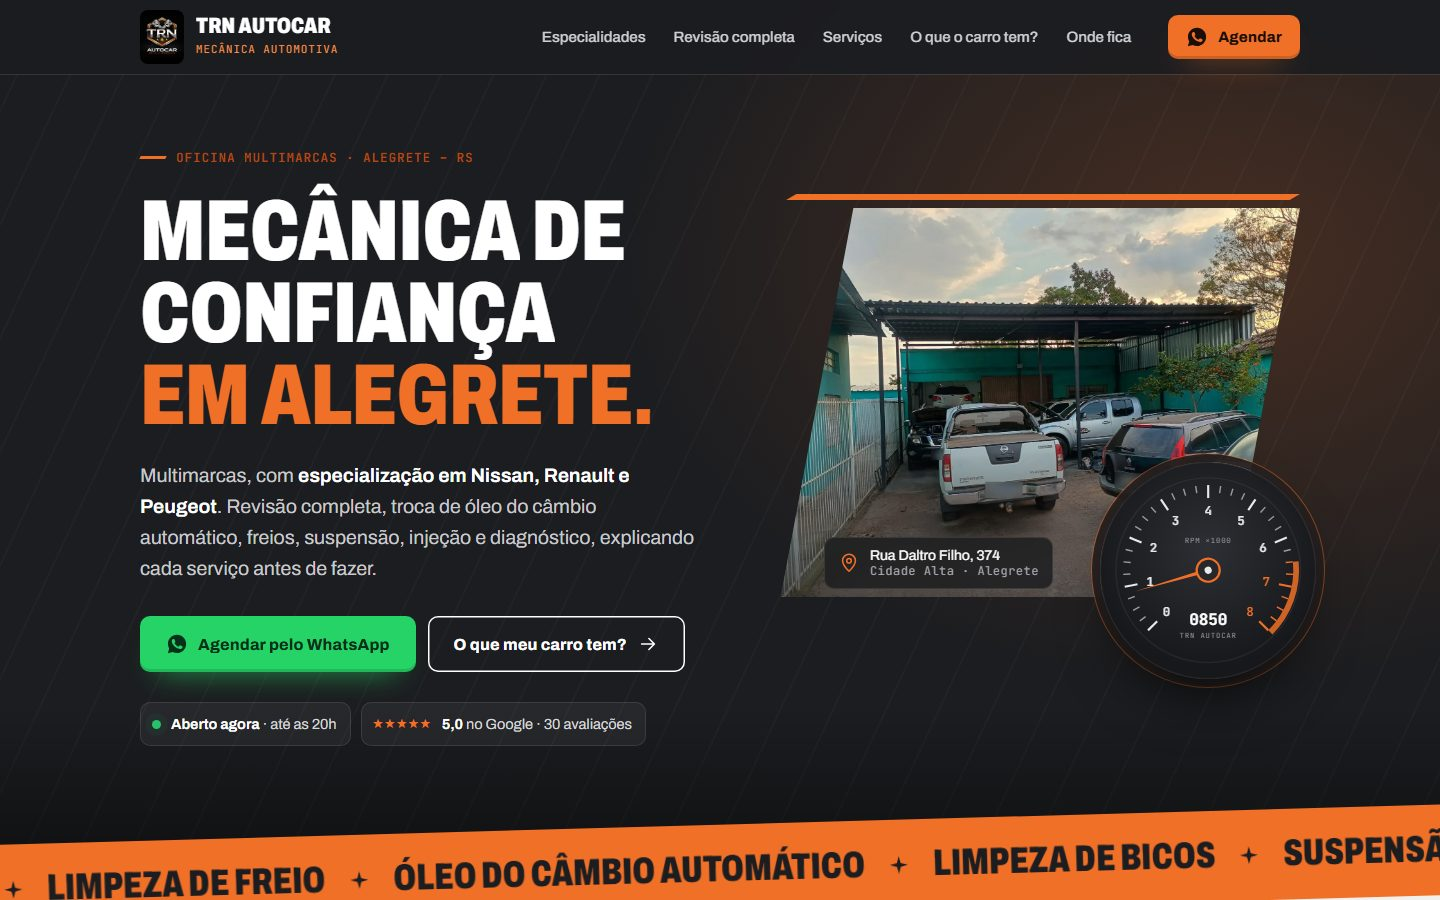
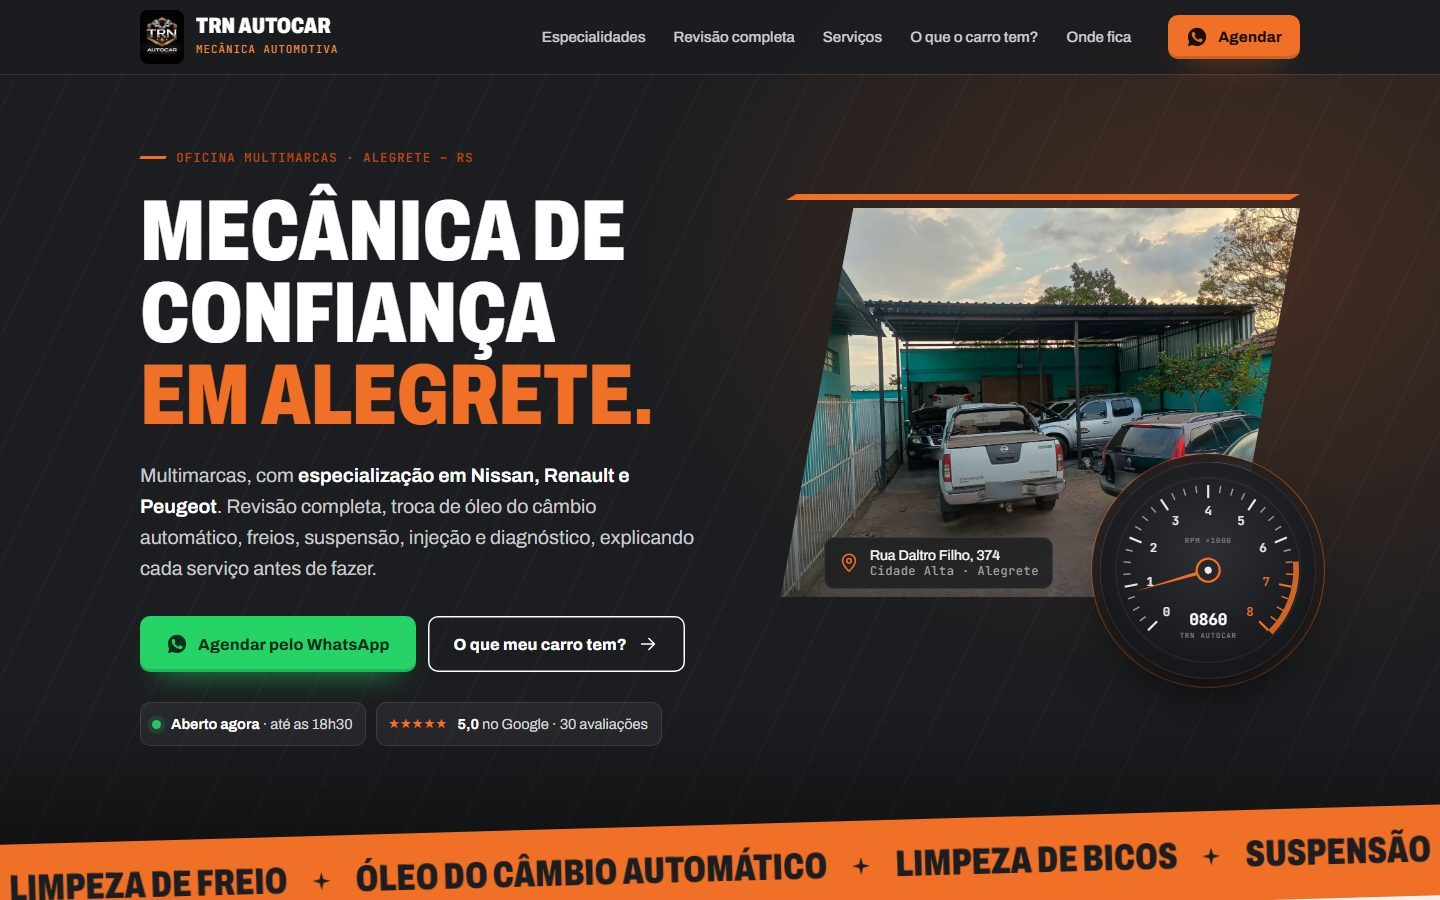
feat: TRN com domínio próprio no portfólio
Endereço oficial www.trnautocar.com.br nos cards, no depoimento e na
abertura; pacote entregue atualizado; capturas com o horário novo.
O texto da abertura agora fala em troca de óleo do câmbio.

Changed region(s): [[0.0, 0.9022, 1.0, 1.0], [0.2188, 0.7778, 0.4375, 0.8089]]

diff --git a/app/data/local.ts b/app/data/local.ts
@@ -71,13 +71,15 @@ export const clients: Client[] = [
     name: "TRN Autocar",
     niche: "Oficina mecânica",
     city: "Alegrete",
-    url: "https://trn-autocar-demo.vercel.app/",
+    url: "https://www.trnautocar.com.br/",
     summary:
       "Oficina multimarcas especialista em Nissan, Renault e Peugeot. O cliente marca o que o carro está fazendo e já chega no WhatsApp com o recado pronto.",
-    highlights: ["\"O que o meu carro tem?\"", "Revisão completa com checklist", "Contador da correia dentada"],
+    highlights: ["Domínio próprio", "\"O que o meu carro tem?\"", "Contador da correia dentada"],
     delivered: [
+      "Domínio .com.br próprio",
+      "Google Search Console e sitemap",
+      "Google Analytics contando cada clique no WhatsApp",
       "Página com fotos e vídeos reais da oficina",
-      "Agendamento direto no WhatsApp",
       "Artes de divulgação para Instagram e status",
     ],
     quote: {
@@ -210,8 +212,8 @@ export const examples: LocalSite[] = [
 
 /**
  * Números conferidos em 07/11/2026 (curl 200 em cada endereço). Atualize quando mudarem.
- * 34 projetos no ar = 25 páginas para negócios (23 exemplos e clientes na Vercel + os
- * domínios da Eficaz e da Eco) + 9 projetos próprios: Solved Scale, Avaliação Preventiva,
+ * 34 projetos no ar = 25 páginas para negócios (22 exemplos e clientes na Vercel + os
+ * domínios da Eficaz, da Eco e da TRN) + 9 projetos próprios: Solved Scale, Avaliação Preventiva,
  * App Master Class (HYROX), HYROX app, oferta HYROX Início de Mês, Take Um,
  * IA no Balcão, Heróis de Crochê e TikTok Shop Studio. O portfólio não conta.
  * Cidades das 25 páginas: São Borja, Alegrete, Uruguaiana, São Luiz Gonzaga, Itaqui e Santo Ângelo.
@@ -269,7 +271,7 @@ export const quotes: Quote[] = [
     date: "05/11/2026",
     initials: "TRN",
     color: "#F07028",
-    url: "https://trn-autocar-demo.vercel.app/",
+    url: "https://www.trnautocar.com.br/",
   },
   {
     text: "Seu serviço ficou excelente.",

diff --git a/app/components/local/HeroStory.tsx b/app/components/local/HeroStory.tsx
@@ -37,8 +37,8 @@ const scenes: Scene[] = [
     niche: "Oficina",
     query: "oficina mecânica em alegrete",
     title: "TRN Autocar · Mecânica de confiança em Alegrete",
-    host: "trn-autocar-demo.vercel.app",
-    snippet: "Revisão completa, freios, suspensão e câmbio automático. Agende pelo WhatsApp.",
+    host: "trnautocar.com.br",
+    snippet: "Revisão completa, freios, suspensão e troca de óleo do câmbio automático. Agende pelo WhatsApp.",
     shot: "/projects/locais/trn.jpg",
     alt: "Página da TRN Autocar",
     cta: [0.193, 0.716],
